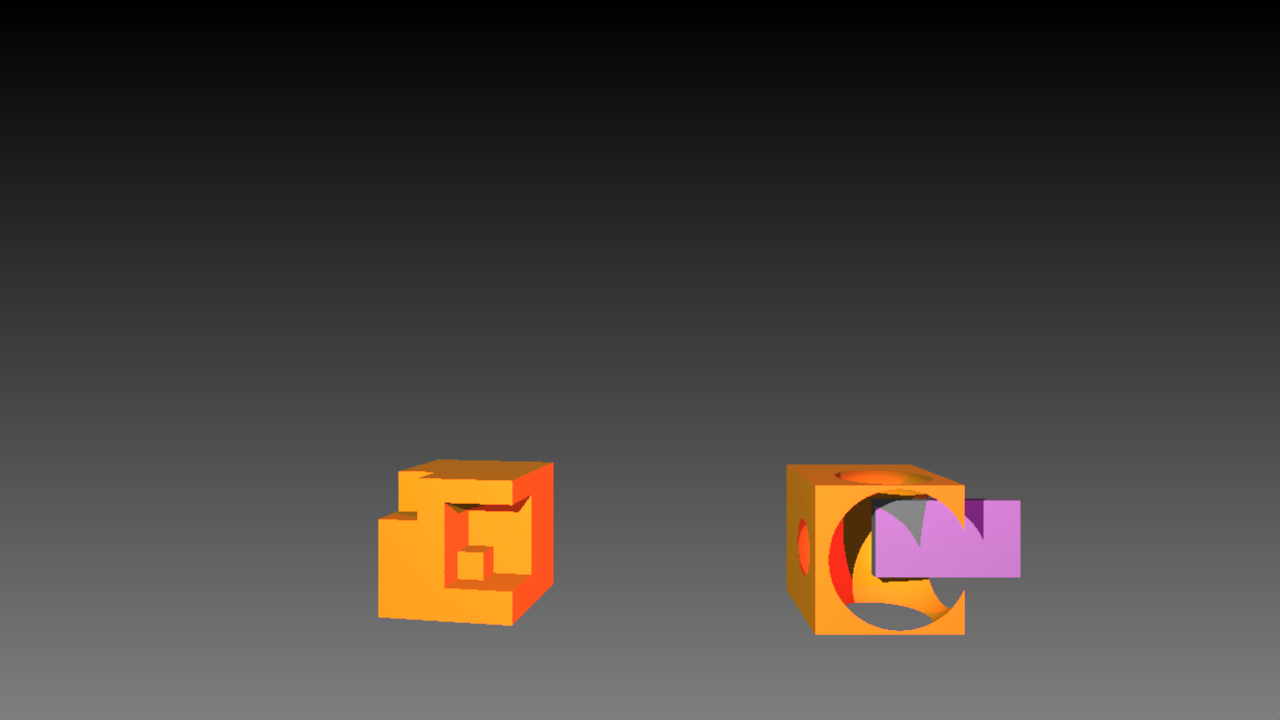
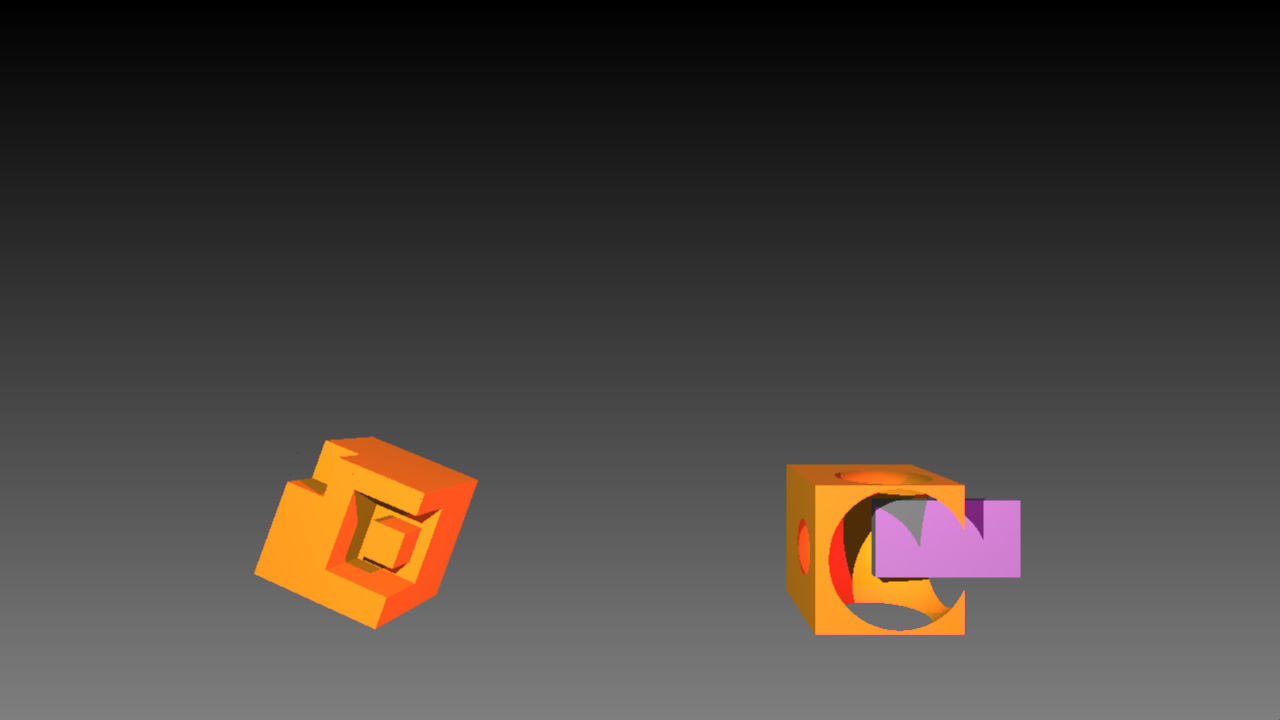
Complete csg union

Changed region(s): [[0.1875, 0.6111, 0.4375, 0.8861]]

diff --git a/src/Intersect.cpp b/src/Intersect.cpp
@@ -50,7 +50,78 @@ CastResult intersectNode(const SceneNode* node,
 		ConstructiveNode* cnode = (ConstructiveNode*) node;
 
 		if(cnode->is_Union()){
-			// TODO
+
+			const mat4 & new_trans = trans*cnode->get_transform();
+
+			if(ray.inside_shape){
+
+				// find max t, return
+
+				float t_left_max;
+				float t_right_max;
+
+				// get left max t
+				CastResult result_left_min = intersectNode(cnode->leftNode(), ray, new_trans);
+				CastResult result_left_max;
+				if(result_left_min.isHit()){
+					CastResult result_left_min_copy = result_left_min;
+					result_left_min_copy.transform();
+					Ray second_ray_left(result_left_min_copy.intersection, ray.dir, true);
+					result_left_max = intersectNode(cnode->leftNode(), second_ray_left, new_trans);
+					if(!result_left_max.isHit()) result_left_max = result_left_min;
+					t_left_max = result_left_max.t;
+				} else {
+					t_left_max = -1;
+				}
+
+				// get right max t
+				CastResult result_right_min = intersectNode(cnode->rightNode(), ray, new_trans);
+				CastResult result_right_max;
+				if(result_right_min.isHit()) {
+					CastResult result_right_min_copy = result_right_min;
+					result_right_min_copy.transform();
+					Ray second_ray_right(result_right_min_copy.intersection, ray.dir, true);
+					result_right_max = intersectNode(cnode->rightNode(), second_ray_right, new_trans);
+					if(!result_right_max.isHit()) result_right_max = result_right_min;
+					t_right_max = result_right_max.t;
+				} else {
+					t_right_max = -1;
+				}
+
+				DASSERT(result_left_min.isHit() || result_right_min.isHit(), 
+					"inside ray has no intersection with neither shapes");
+
+				if(t_left_max > t_right_max){
+					result_left_max.type = HitType::CSG;
+					result_left_max.parentTrans = new_trans;
+					return result_left_max;
+				} else {
+					result_right_max.type = HitType::CSG;
+					result_right_max.parentTrans = new_trans;
+					return result_right_max;
+				}
+
+			} else {
+				CastResult result_left = intersectNode(cnode->leftNode(), ray, new_trans);
+				CastResult result_right = intersectNode(cnode->rightNode(), ray, new_trans);
+
+				if(!result_left.isHit() && !result_right.isHit()) return CastResult();
+				if(result_left.isHit() && !result_right.isHit()) return result_left;
+				if(!result_left.isHit() && result_right.isHit()) return result_right;
+				else {
+					if(result_left.t < result_right.t){
+						DASSERT(result_left.gnode != nullptr, "Empty CastResult");
+						result_left.type = HitType::CSG;
+						result_left.parentTrans = new_trans;
+						return result_left;
+					} else {
+						DASSERT(result_right.gnode != nullptr, "Empty CastResult");
+						result_right.type = HitType::CSG;
+						result_right.parentTrans = new_trans;
+						return result_right;
+					}
+				}
+			}
 		}
 		else if(cnode->is_Intersect()){
 			// TODO

diff --git a/src/CastResult.hpp b/src/CastResult.hpp
@@ -3,11 +3,6 @@
 #pragma once
 
 #include <glm/glm.hpp>
-#include <glm/ext.hpp>
-#include <glm/gtx/transform.hpp>
-
-#include "GeometryNode.hpp"
-#include "SolidNode.hpp"
 
 enum class HitType {
   None,
@@ -22,22 +17,12 @@ struct CastResult {
   glm::vec3 intersection;
   glm::vec3 surface_normal;
   GeometryNode* gnode = nullptr;
-  double t;
+  double t = 0;
   glm::vec3 pos;
   glm::mat4 parentTrans;
 
-  bool isHit() const { return type != HitType::None; }
+  bool isHit() const;
 
-  void transform() {
-  
-    glm::mat4 trans = parentTrans * gnode->get_transform();
-    glm::mat4 invtrans = inverse(trans);
-
-    trans *= glm::translate(pos);
-
-    this->intersection = glm::vec3( trans*glm::vec4(intersection, 1) );
-    this->surface_normal = glm::normalize(glm::vec3( glm::vec4(surface_normal, 0)*invtrans ));
-
-  }
+  void transform();
 
 };

diff --git a/src/CastResult.cpp b/src/CastResult.cpp
@@ -1,0 +1,27 @@
+#include <glm/ext.hpp>
+#include <glm/gtx/transform.hpp>
+
+#include "GeometryNode.hpp"
+#include "SolidNode.hpp"
+#include "DEBUG.hpp"
+
+#include "CastResult.hpp"
+
+bool CastResult::isHit() const {
+	return type != HitType::None; 
+}
+
+void CastResult::transform() {
+
+    DASSERT(this->isHit(), "Attempt to transform empty CastResult.");
+    DASSERT(this->gnode!=nullptr, "Attempt to transform empty CastResult.");
+  
+    glm::mat4 trans = parentTrans * gnode->get_transform();
+    glm::mat4 invtrans = inverse(trans);
+
+    trans *= glm::translate(pos);
+
+    this->intersection = glm::vec3( trans*glm::vec4(intersection, 1) );
+    this->surface_normal = glm::normalize(glm::vec3( glm::vec4(surface_normal, 0)*invtrans ));
+
+}

diff --git a/README.md b/README.md
@@ -37,6 +37,10 @@ Second iteraction.
 
 "difference" mode completed.
 
+Now supports hierarchical CSG tree.
+
+"union" mode completed.
+
 ### Super Sampling
 
 Take average color of 4 corners of a pixel.
